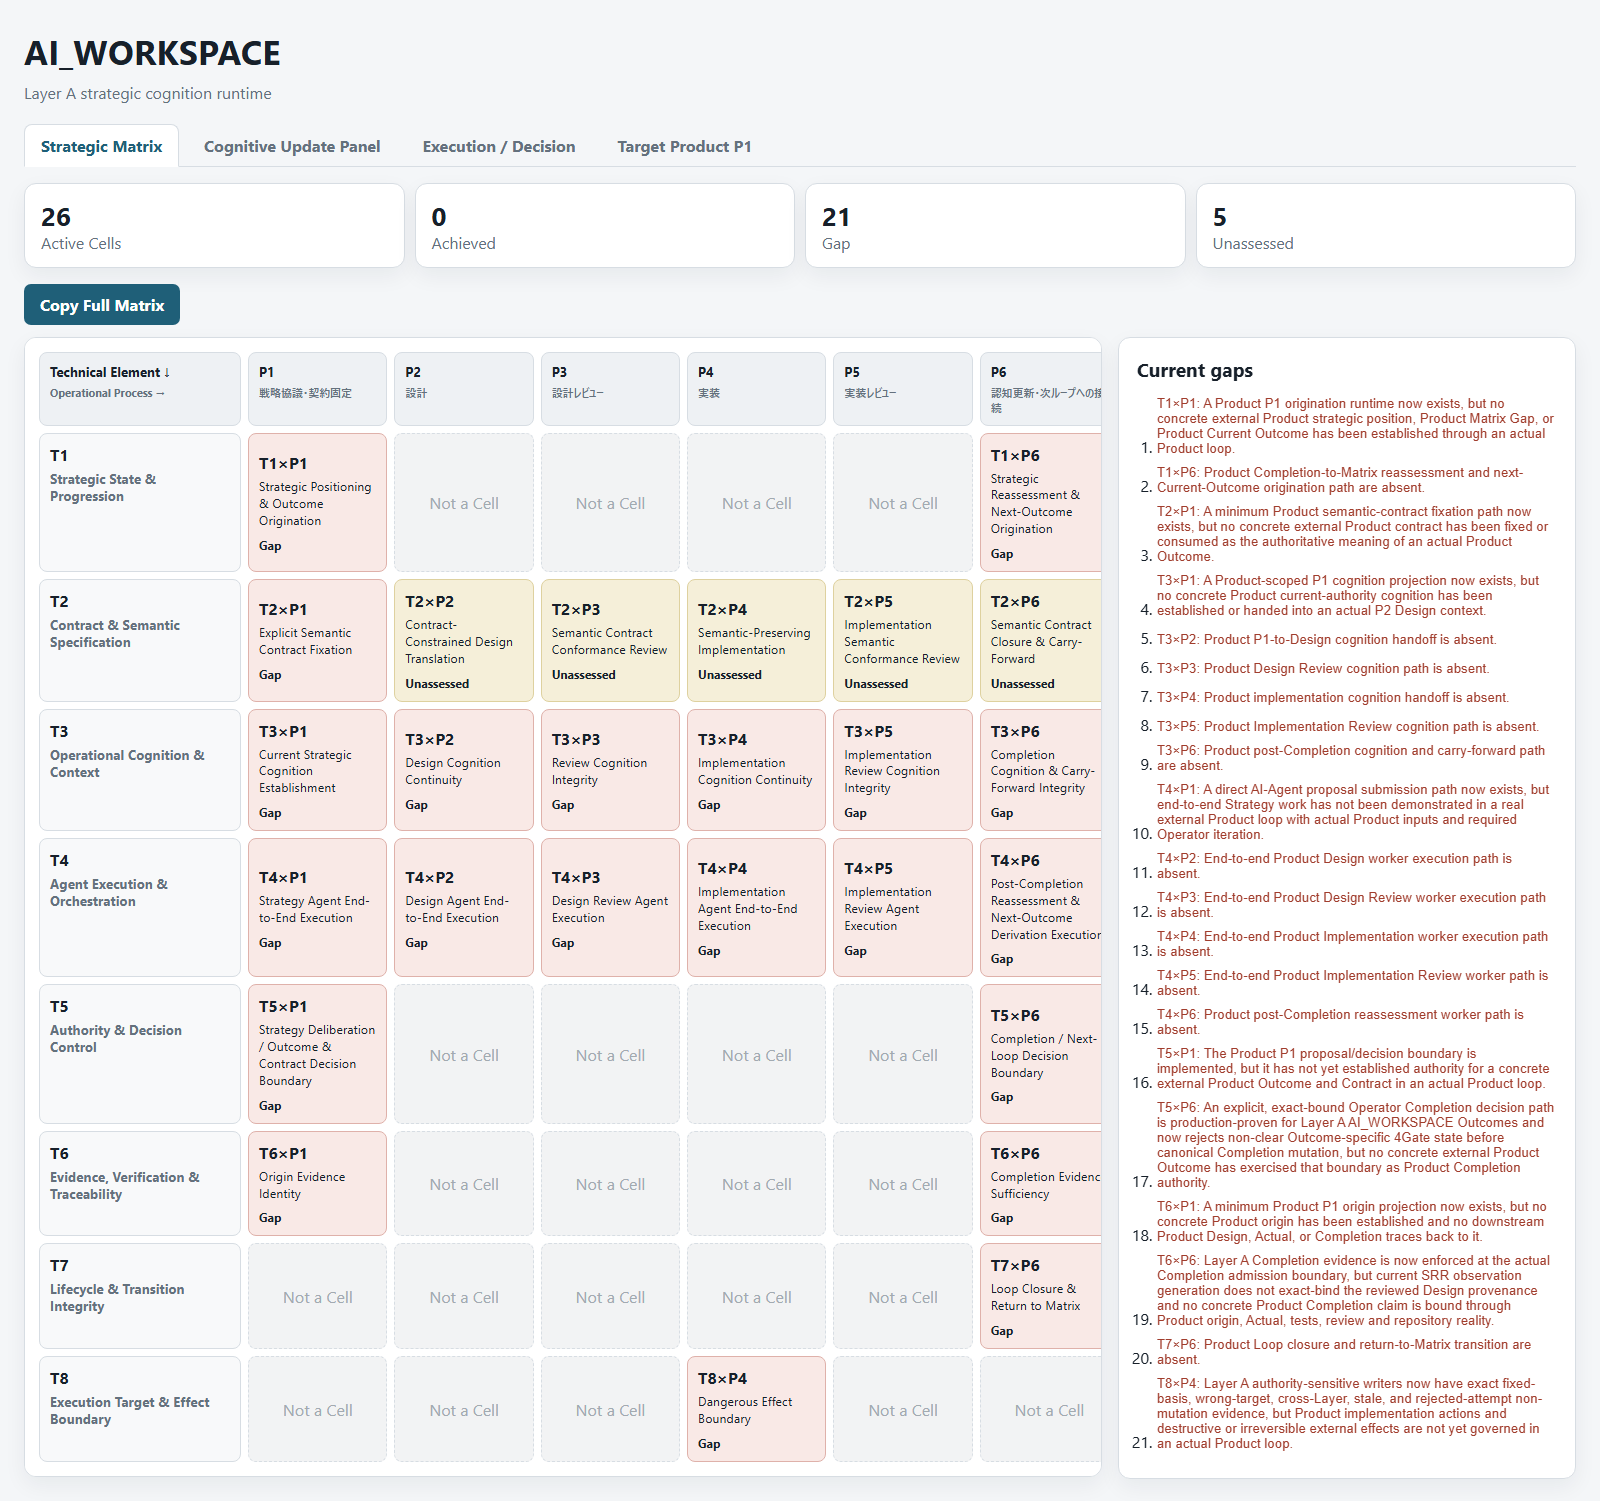
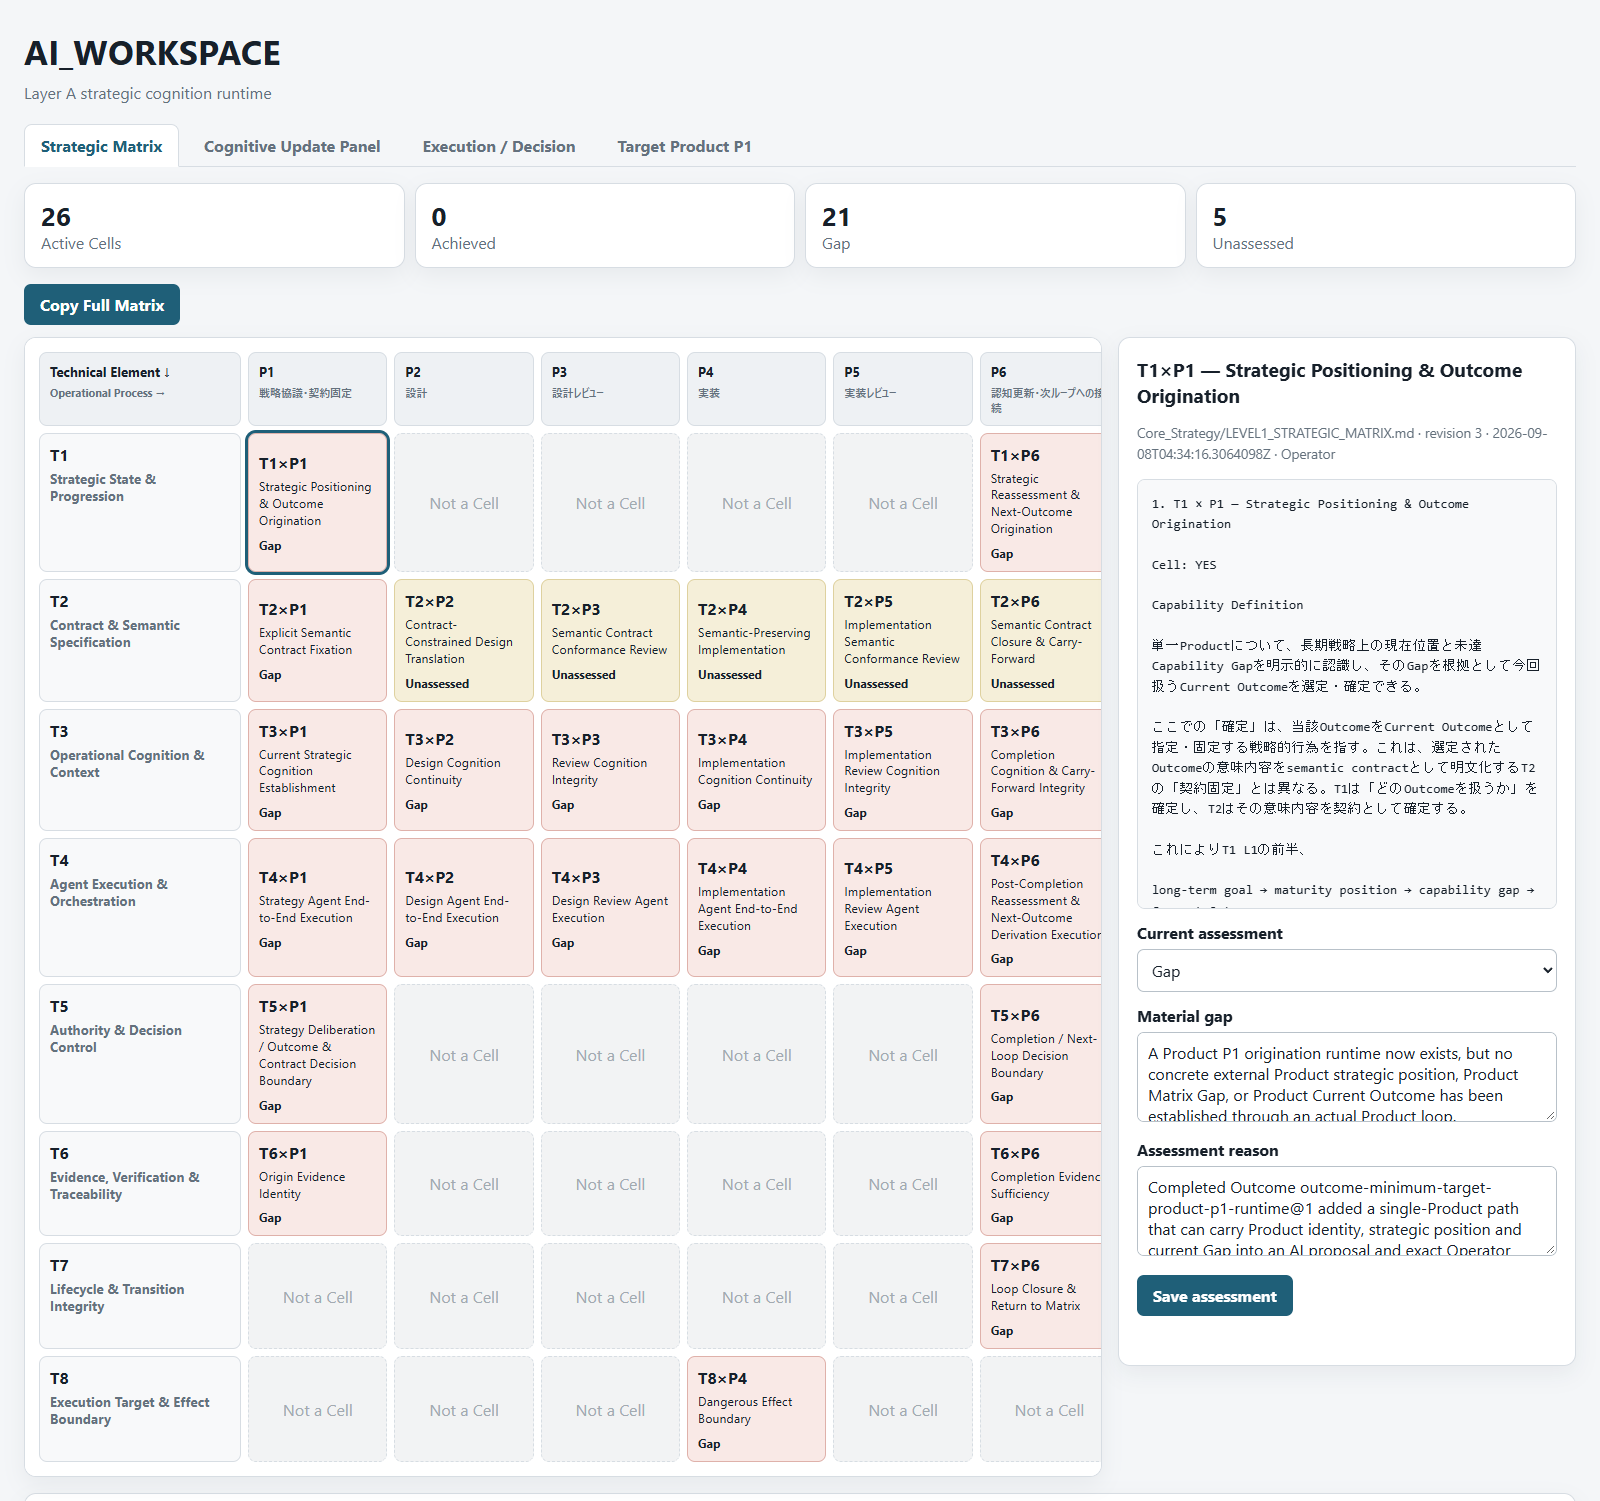
Add current K-MAD system UI orientation

Changed region(s): [[0.6875, 0.2452, 0.9688, 0.9807]]

diff --git a/PROVENANCE_MANIFEST.md b/PROVENANCE_MANIFEST.md
@@ -21,7 +21,12 @@ These refs are provenance metadata. They are not public links and do not imply r
 
 | Public path | Source private path / basis | Source preservation ref | Source SHA-256 | Public SHA-256 | Export status | Notes |
 |---|---|---|---|---|---|---|
[10 lines of base64/hex data omitted]
@@ -38,7 +43,7 @@ These refs are provenance metadata. They are not public links and do not imply r
 | Public path | Source basis | Source SHA-256 | Public SHA-256 | Export status |
 |---|---|---|---|---|
[6 lines of base64/hex data omitted]
@@ -62,4 +67,5 @@ This manifest does not record its own hash because embedding that value would be
 
 - PUBLIC_REQUIRED: English and Japanese publication drafts, Evidence Index, primary result JSON, C1 crop, C4b crop, README, provenance manifest
 - PUBLIC_SUPPORTING: canonical observation excerpt, C2/C3/C4a crops, secondary evidence, routing notes
+- PUBLIC_ORIENTATION: five current production UI screenshots used only to orient readers to the broader K-MAD system
 - HOLD_PRIVATE: full Design, full implementation patch, complete packet, fixtures, originals, full logs/history

diff --git a/publication/stage1.md b/publication/stage1.md
@@ -147,15 +147,47 @@ Execution / Decision
 
 ### Strategic Matrix
 
+![Strategic Matrix current production UI](../assets/system-ui/A1-strategic-matrix.png)
+
+*Current production UI。Matrix cellを選択すると右ペインに既存の詳細が表示され、Current gapsはMatrix下部に分離して表示される。一部のoperational contentは日本語である。これはsystem orientation用であり、historical adversarial proofまたはprimary technical evidenceの一部ではない。*
+
 Repository / product stateをstrategy上のmulti-axis gapとして把握し、次のOutcome候補とpriorityを考察する。
 
 ### Cognitive Update Panel
+
+![Cognitive Update Panel current production UI](../assets/system-ui/A2-cognitive-update-panel.png)
+
+*`Outcome / Route / Scope / Deferred`を固定するcurrent production UI。一部のoperational contentは日本語である。system orientation専用であり、historical adversarial proofまたはprimary technical evidenceの一部ではない。*
 
 Strategic Matrixがdevelopment全体のstateとGapを示すのに対し、Cognitive Update Panelは、その中から現在取り組むと決定したCurrent Outcomeを明示的に固定する。`Outcome / Route / Scope / Deferred`を中心に、AIとOperatorが「今どこへ向かっているか」を短距離で共有できるようにするsurfaceである。Layer / target / revision / actor / origin等のidentity metadataもread-onlyで表示する。
 
 ### Execution / Decision
 
+<details>
+<summary>Execution / Decision 全体表示</summary>
+
+![Execution / Decision current production UI](../assets/system-ui/A3-execution-decision-overview.png)
+
+*System orientation用のcurrent production UI。一部のoperational contentは日本語である。historical adversarial proofまたはprimary technical evidenceの一部ではない。*
+
+</details>
+
 Current Outcomeに対するPlan、Acceptance Criteria、Test Plan、implementation result、executed tests、independent checks、4Gate、Operator decisions、Completion、server-side admission enforcementを扱う実行・検証・承認surfaceである。今回のmain adversarial detectionは、このsurface内の4Gateの1つである`SRR 4A / Standing Core`によるものだった。
+
+#### 4GateSpine
+
+4GateSpineはExecution / Decision surfaceの一部である。以下はsystem orientation用のcurrent production UIであり、historical adversarial proofまたはprimary technical evidenceではない。
+
+<details>
+<summary>Governance / Behavioral / Invariant Kernel 詳細</summary>
+
+![4GateSpine deterministic-side current production UI](../assets/system-ui/A4-four-gate-spine-deterministic.png)
+
+</details>
+
+![4GateSpine semantic-side current production UI](../assets/system-ui/A5-four-gate-spine-semantic.png)
+
+*Current production UIにおけるpacket-specific stateは、`Standing Core = REVIEW_REQUIRED`、`Outcome-specific = REVIEW_REQUIRED`、`Verification closure = NOT_ESTABLISHED`である。これは当該packetに対するsemantic reviewが未実行であることを示すcurrent stateであり、`FAIL`ではない。system orientation専用であり、historical adversarial proofまたはprimary technical evidenceの一部ではない。*
 
 ## Limitations
 

diff --git a/publication/stage1.en.md b/publication/stage1.en.md
@@ -151,15 +151,47 @@ Plan / execution / verification / Gates / Completion for that Outcome
 
 ### Strategic Matrix
 
+![Strategic Matrix current production UI](../assets/system-ui/A1-strategic-matrix.png)
+
+*Current production UI. Selecting a Matrix cell exposes its existing detail in the right pane; current gaps appear separately below the Matrix. Some operational content is in Japanese. This is a system-orientation view, not part of the historical adversarial proof or its primary technical evidence.*
+
 This surface represents repository or product state as multi-axis strategic gaps and supports consideration of priorities and candidates for the next Outcome.
 
 ### Cognitive Update Panel
+
+![Cognitive Update Panel current production UI](../assets/system-ui/A2-cognitive-update-panel.png)
+
+*Current production UI for fixing `Outcome / Route / Scope / Deferred`. Some operational content is in Japanese. System orientation only; not part of the historical adversarial proof or its primary technical evidence.*
 
 Where the Strategic Matrix shows overall development state and gaps, the Cognitive Update Panel explicitly fixes the Current Outcome selected from that broader state. Centered on `Outcome / Route / Scope / Deferred`, it gives the AI and Operator a short path to a shared answer to “where are we going now?” Identity metadata such as Layer, target, revision, actor, and origin is also displayed read-only.
 
 ### Execution / Decision
 
+<details>
+<summary>Full Execution / Decision view</summary>
+
+![Execution / Decision current production UI](../assets/system-ui/A3-execution-decision-overview.png)
+
+*Current production UI shown for system orientation. Some operational content is in Japanese. This is not part of the historical adversarial proof or its primary technical evidence.*
+
+</details>
+
 This is the execution, verification, and approval surface for the Current Outcome. It handles the Plan, Acceptance Criteria, Test Plan, implementation result, executed tests, independent checks, 4Gate results, Operator decisions, Completion, and server-side admission enforcement. The main adversarial detection described here occurred in one of those Gates: `SRR 4A / Standing Core`.
+
+#### 4GateSpine
+
+The 4GateSpine is part of the Execution / Decision surface. The views below show the current production UI for system orientation, not the historical adversarial proof or primary technical evidence.
+
+<details>
+<summary>Governance / Behavioral / Invariant Kernel detail</summary>
+
+![4GateSpine deterministic-side current production UI](../assets/system-ui/A4-four-gate-spine-deterministic.png)
+
+</details>
+
+![4GateSpine semantic-side current production UI](../assets/system-ui/A5-four-gate-spine-semantic.png)
+
+*Current production UI, showing the packet-specific current state: `Standing Core = REVIEW_REQUIRED`, `Outcome-specific = REVIEW_REQUIRED`, and `Verification closure = NOT_ESTABLISHED`. These values reflect semantic reviews that have not yet been executed for this packet; they are not `FAIL` results. System orientation only, not the historical adversarial proof or primary technical evidence.*
 
 ## Limitations
 
